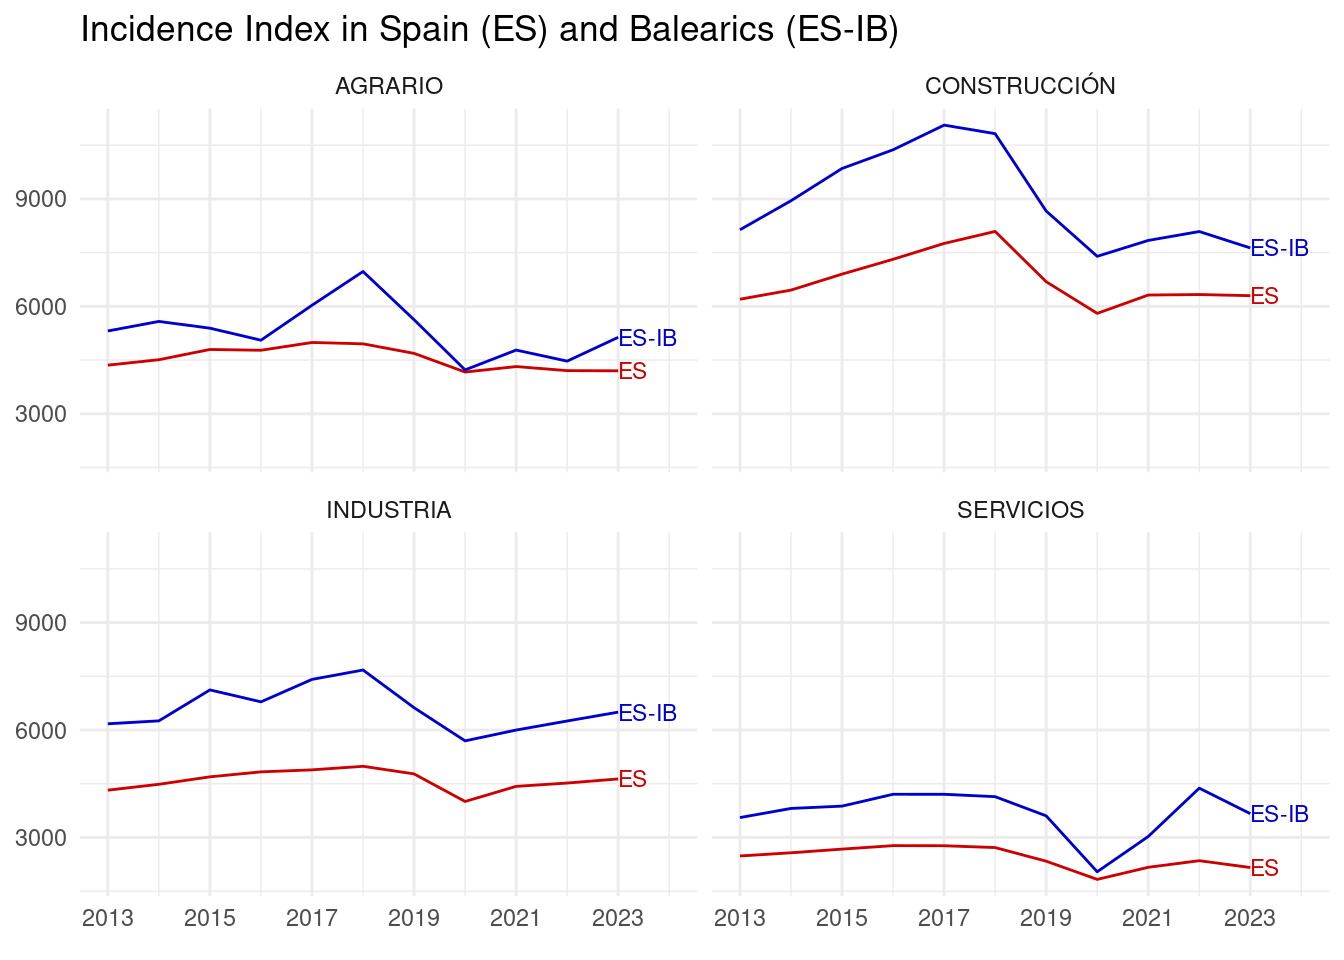
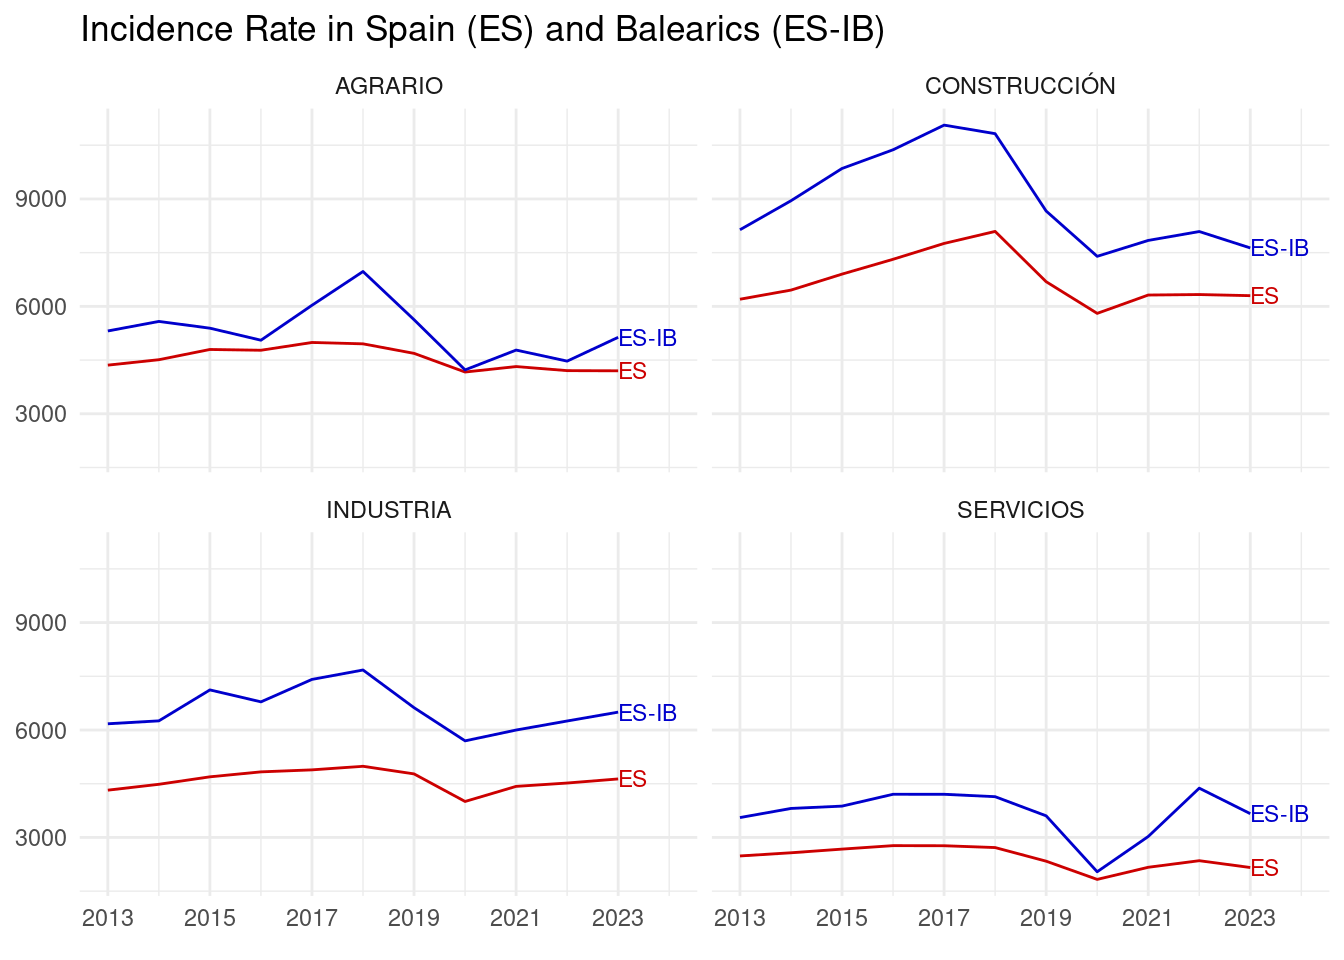
incidence rate correction

Changed region(s): [[0.1875, 0.0, 0.6562, 0.0625]]

diff --git a/content/blog/2025-03-18-evolution-of-the-spanish-incidence-rate-of-occupational-accidents/index.html b/content/blog/2025-03-18-evolution-of-the-spanish-incidence-rate-of-occupational-accidents/index.html
@@ -1,5 +1,5 @@
 ---
-title: Evolution of the Spanish Incidence Rate of Occupational Accidents
+title: Spanish Incidence Rate of Occupational Accidents
 author: Jose M Sallan
 date: '2025-03-18'
 slug: evolution-of-the-spanish-incidence-rate-of-occupational-accidents
@@ -85,8 +85,8 @@ iind</code></pre>
   scale_x_continuous(name = element_blank(), 
                      breaks = seq(2013, 2023, 2), 
                      limits = c(2013, 2025)) +
-  labs(title = &quot;Índice de incidencia baja en jornada&quot;, 
-       caption = &quot;Fuente: MITES&quot;, y = NULL) +
+  labs(title = &quot;Índice Rate of Occupational Accidents&quot;, 
+       caption = &quot;Source: MITES&quot;, y = NULL) +
   geom_text(data = iind_dl, 
             aes(year, index, color = sector, label = sector), 
             hjust = 0, show.legend = FALSE, size = 3) +
@@ -198,7 +198,7 @@ iind_iso |&gt;
   facet_wrap(. ~  sector, ncol = 2) +
   theme_minimal() +
   theme(legend.position = &quot;none&quot;) +
-  labs(title = &quot;Incidence Index in Spain (ES) and Balearics (ES-IB)&quot;, y = NULL)</code></pre>
+  labs(title = &quot;Incidence Rate in Spain (ES) and Balearics (ES-IB)&quot;, y = NULL)</code></pre>
 <p><img src="{{< blogdown/postref >}}index_files/figure-html/unnamed-chunk-14-1.png" width="672" /></p>
 <p>In the plot above I have compared the evolution of the incidence index in Balearic Islands and all Spain. We observe that the values in Balearic Islands are significantly higher in all sectors than in all Spain. Further research is needed to account for this difference.</p>
 </div>
